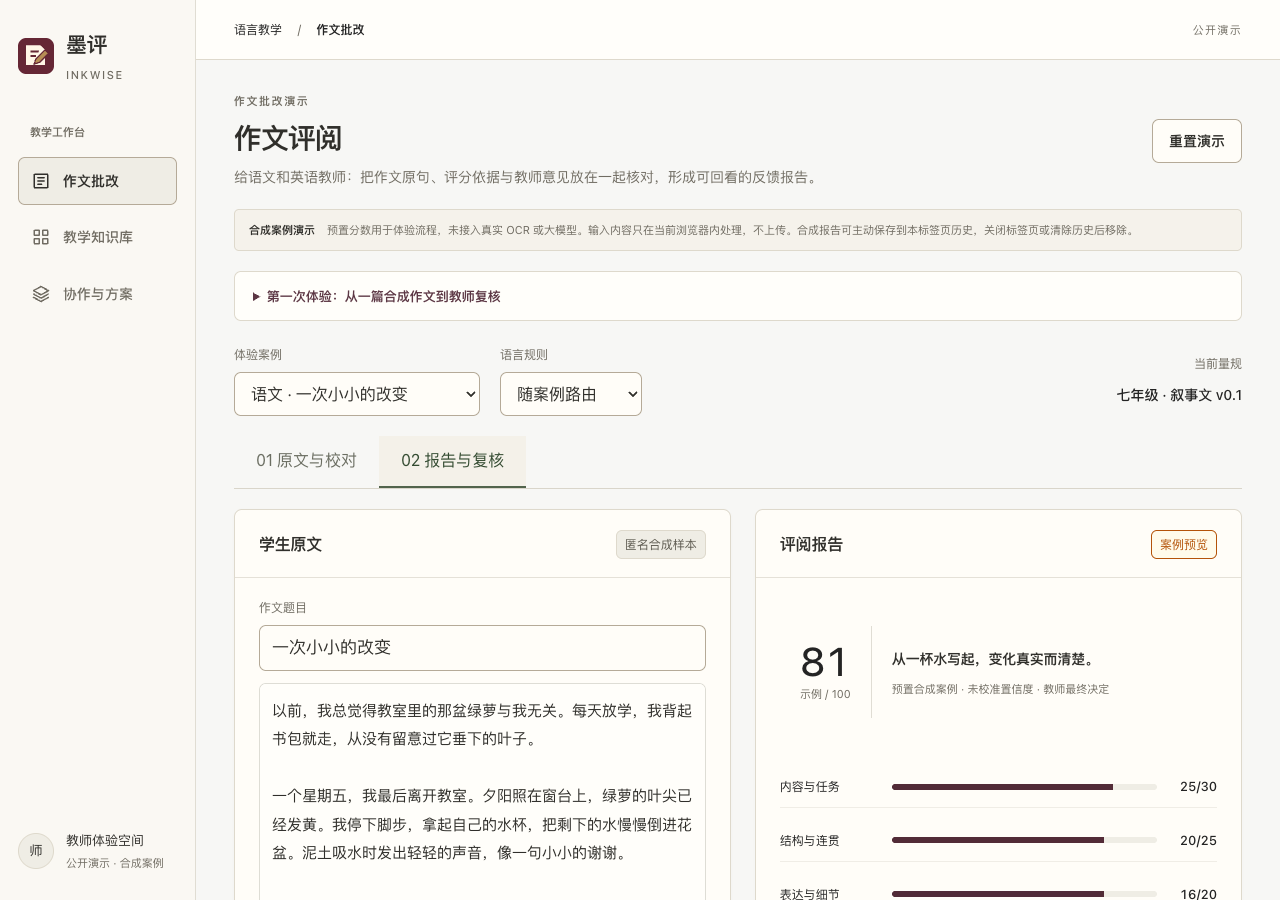
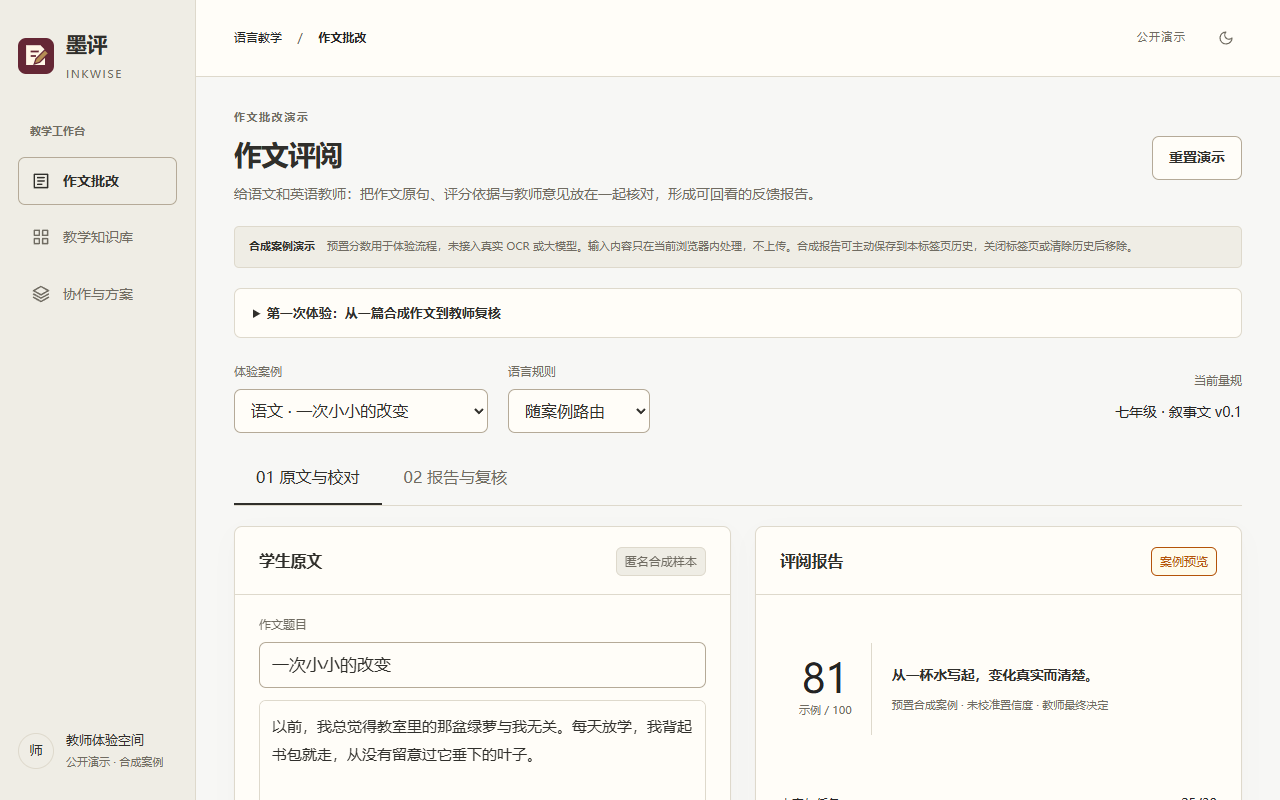
feat(demo): add a dark appearance and fix saving on non-HTTPS hosts
- Replace the demo's remaining hard-coded colours with theme tokens, so
  one dark token set covers every surface.
- Add a dark appearance that follows the system, with a toggle in the
  top bar. Only that choice is kept in local storage.
- Save history records without crypto.randomUUID, which is missing when
  the unpacked demo is served from a LAN address.
- Add tests/test_demo_theme.mjs: colours stay tokenised, both dark
  blocks stay identical, and every light colour token has a dark value.

diff --git a/demo/dist/styles.css b/demo/dist/styles.css
@@ -209,9 +209,19 @@ button,input,select,textarea{font:inherit}button,a,input,select,textarea,summary
 .session-history{margin-top:24px}.history-row{display:flex;flex-wrap:wrap;gap:12px;align-items:center;padding:16px 0;border-top:1px solid var(--border)}.history-row span{font-size:13px;color:var(--text-secondary);flex:1 1 240px}@media(max-width:600px){.session-history .panelhead{align-items:start;flex-direction:column}.history-row{display:grid}.history-row button{width:100%}}
 
 /* A document desk with one visible review stage on a phone. */
-.sidebar{width:196px;background:#faf8f3;padding:28px 18px;border-color:#e0ddd3}.shell{margin-inline-start:196px}.sidebar .brand{font-size:21px}.navlabel{margin-top:40px}.topbar{min-height:60px;background:#fffefa;font-size:12px}.pagehead{margin:0 0 20px}.pagehead h1{font-size:28px;letter-spacing:-.04em;font-weight:550}.notice{font-size:11px;padding:10px 14px;margin-bottom:20px;border-radius:5px;background:#f5f2eb}.toolbar{gap:20px;padding-bottom:20px}.panel{border-radius:8px;box-shadow:0 1px 3px #343d3305}.workspace{gap:24px;align-items:start}.paper{position:sticky;top:20px}.paper textarea{min-height:310px;max-height:52vh;line-height:1.9;background:#fffefa;border-color:#deddd5;font-size:15px}.paper-meta input{font-size:17px}.panelhead{padding-bottom:18px;border-bottom:1px solid #e5e1d8}.paperfoot{margin-top:10px}.steps{display:none}.scorehero{padding:24px 0;gap:20px}.scorecircle{border-radius:0;border:0;border-right:1px solid #e0ddd4;min-width:90px;background:transparent!important;box-shadow:none!important}.scorecircle strong{font-size:40px;font-weight:450}.scorehero h3{font-size:14px;line-height:1.8;font-weight:550}.scorehero p{font-size:11px}.dimension{padding:10px 0;font-size:12px;border-bottom:1px solid #f0ede6}.feedback{background:#fffefa;border:0;border-bottom:1px solid #e5e1d8;border-radius:0;padding:20px 0;box-shadow:none}.feedback blockquote{padding:12px 16px;background:#f4f1e9;border-left:2px solid #9e9474;font-size:14px;line-height:1.8}.feedback .button{min-height:34px;font-size:11px}.teacher{border-radius:5px;background:#f7f5ef}.review-actions{padding-top:18px;border-top:1px solid #e5e1d8}.review-stage-nav{display:flex;gap:0;border-bottom:1px solid #d9d5ca;margin:0 0 20px}.review-stage-nav button{background:transparent;border:0;border-bottom:2px solid transparent;border-radius:0;padding:12px 22px;min-height:46px;color:#6b6e62;font:500 13px inherit}.review-stage-nav button[aria-pressed=true]{border-bottom-color:#52644c;color:#334b31}.session-history{border-radius:8px}.review-stage-nav button:hover{background:#f4f1e9}
-@media(max-width:850px){.sidebar{position:static;width:auto;height:auto;padding:16px 20px}.sidebar .brand{font-size:19px}.sidebar nav{display:flex;gap:6px;margin-top:14px}.nav{justify-content:center;min-height:40px;font-size:11px;gap:6px;padding:8px;margin:0}.nav svg{width:16px;height:16px}.navlabel,.sidebottom{display:none}.shell{margin-inline-start:0}.topbar{padding:12px 20px;min-height:44px}main{padding:24px 20px 0}.pagehead h1{font-size:25px}.pagehead .eyebrow{display:none}.notice{display:block}.notice strong{display:block;margin-bottom:4px}.toolbar{display:grid;grid-template-columns:1fr 1fr;gap:12px}.toolbar select{width:100%;min-height:44px;font-size:14px}.rubric-chip{grid-column:1/-1;display:flex;gap:10px}.review-stage-nav{position:sticky;top:0;z-index:5;background:#f8f6f0;box-shadow:0 4px 8px #343d3306}.review-stage-nav button{flex:1;font-size:12px;padding:12px 8px}.workspace{display:block}.workspace[data-pane=paper] .review,.workspace[data-pane=review] .paper{display:none}.paper{position:static}.paper textarea{font-size:16px;min-height:280px;max-height:55vh}.review,.paper{padding:20px}.panelhead h2{scroll-margin-top:70px}.review-actions{display:grid;grid-template-columns:1fr}.feedback .button{min-height:44px}.scorehero h3{font-size:13px}.scorecircle strong{font-size:34px}.session-history .panelhead>div{display:flex;flex-wrap:wrap;gap:8px}.session-history button{font-size:12px}.bottom-note{margin-top:20px}.report-tabs button{min-height:44px}footer{padding-bottom:env(safe-area-inset-bottom)}}
+.sidebar{width:196px;background:var(--surface-muted);padding:28px 18px;border-color:var(--border)}.shell{margin-inline-start:196px}.sidebar .brand{font-size:21px}.navlabel{margin-top:40px}.topbar{min-height:60px;background:var(--surface-card);font-size:12px}.pagehead{margin:0 0 20px}.pagehead h1{font-size:28px;letter-spacing:-.04em;font-weight:550}.notice{font-size:11px;padding:10px 14px;margin-bottom:20px;border-radius:5px;background:var(--surface-muted)}.toolbar{gap:20px;padding-bottom:20px}.panel{border-radius:8px;box-shadow:var(--shadow-panel)}.workspace{gap:24px;align-items:start}.paper{position:sticky;top:20px}.paper textarea{min-height:310px;max-height:52vh;line-height:1.9;background:var(--surface-card);border-color:var(--border);font-size:15px}.paper-meta input{font-size:17px}.panelhead{padding-bottom:18px;border-bottom:1px solid var(--border)}.paperfoot{margin-top:10px}.steps{display:none}.scorehero{padding:24px 0;gap:20px}.scorecircle{border-radius:0;border:0;border-right:1px solid var(--border);min-width:90px;background:transparent!important;box-shadow:none!important}.scorecircle strong{font-size:40px;font-weight:450}.scorehero h3{font-size:14px;line-height:1.8;font-weight:550}.scorehero p{font-size:11px}.dimension{padding:10px 0;font-size:12px;border-bottom:1px solid var(--border)}.feedback{background:var(--surface-card);border:0;border-bottom:1px solid var(--border);border-radius:0;padding:20px 0;box-shadow:none}.feedback blockquote{padding:12px 16px;background:var(--surface-muted);border-left:2px solid var(--border-strong);font-size:14px;line-height:1.8}.feedback .button{min-height:34px;font-size:11px}.teacher{border-radius:5px;background:var(--surface-muted)}.review-actions{padding-top:18px;border-top:1px solid var(--border)}.review-stage-nav{display:flex;gap:0;border-bottom:1px solid var(--border);margin:0 0 20px}.review-stage-nav button{background:transparent;border:0;border-bottom:2px solid transparent;border-radius:0;padding:12px 22px;min-height:46px;color:var(--text-secondary);font:500 13px inherit}.review-stage-nav button[aria-pressed=true]{border-bottom-color:var(--text-primary);color:var(--text-primary)}.session-history{border-radius:8px}.review-stage-nav button:hover{background:var(--surface-muted)}
+@media(max-width:850px){.sidebar{position:static;width:auto;height:auto;padding:16px 20px}.sidebar .brand{font-size:19px}.sidebar nav{display:flex;gap:6px;margin-top:14px}.nav{justify-content:center;min-height:40px;font-size:11px;gap:6px;padding:8px;margin:0}.nav svg{width:16px;height:16px}.navlabel,.sidebottom{display:none}.shell{margin-inline-start:0}.topbar{padding:12px 20px;min-height:44px}main{padding:24px 20px 0}.pagehead h1{font-size:25px}.pagehead .eyebrow{display:none}.notice{display:block}.notice strong{display:block;margin-bottom:4px}.toolbar{display:grid;grid-template-columns:1fr 1fr;gap:12px}.toolbar select{width:100%;min-height:44px;font-size:14px}.rubric-chip{grid-column:1/-1;display:flex;gap:10px}.review-stage-nav{position:sticky;top:0;z-index:5;background:var(--surface-app);box-shadow:none}.review-stage-nav button{flex:1;font-size:12px;padding:12px 8px}.workspace{display:block}.workspace[data-pane=paper] .review,.workspace[data-pane=review] .paper{display:none}.paper{position:static}.paper textarea{font-size:16px;min-height:280px;max-height:55vh}.review,.paper{padding:20px}.panelhead h2{scroll-margin-top:70px}.review-actions{display:grid;grid-template-columns:1fr}.feedback .button{min-height:44px}.scorehero h3{font-size:13px}.scorecircle strong{font-size:34px}.session-history .panelhead>div{display:flex;flex-wrap:wrap;gap:8px}.session-history button{font-size:12px}.bottom-note{margin-top:20px}.report-tabs button{min-height:44px}footer{padding-bottom:env(safe-area-inset-bottom)}}
 
-.tag{color:#5c594f}
+.tag{color:var(--text-secondary)}
 
-.usage-guide{padding:0 18px;margin:0 0 24px;border:1px solid var(--border);border-radius:7px;background:#fffefa}.usage-guide>summary{padding:13px 0;color:#5c3744;font-weight:550;font-size:13px;cursor:pointer}.usage-guide ol{display:grid;grid-template-columns:repeat(3,minmax(0,1fr));gap:24px;margin:10px 0 20px;padding-left:20px}.usage-guide li{min-width:0;font-size:12px;line-height:1.8}.usage-guide li::marker{color:#805263}.usage-guide p{font-size:12px;color:#625f54;margin:7px 0 12px}.usage-guide .button{min-height:38px;padding:7px 10px;font-size:12px}@media(max-width:850px){.usage-guide{padding:0 16px}.usage-guide ol{grid-template-columns:1fr;gap:14px}.usage-guide>summary{font-size:12px}.usage-guide .button{min-height:44px}}
+.usage-guide{padding:0 18px;margin:0 0 24px;border:1px solid var(--border);border-radius:7px;background:var(--surface-card)}.usage-guide>summary{padding:13px 0;color:var(--text-primary);font-weight:550;font-size:13px;cursor:pointer}.usage-guide ol{display:grid;grid-template-columns:repeat(3,minmax(0,1fr));gap:24px;margin:10px 0 20px;padding-left:20px}.usage-guide li{min-width:0;font-size:12px;line-height:1.8}.usage-guide li::marker{color:var(--text-secondary)}.usage-guide p{font-size:12px;color:var(--text-secondary);margin:7px 0 12px}.usage-guide .button{min-height:38px;padding:7px 10px;font-size:12px}@media(max-width:850px){.usage-guide{padding:0 16px}.usage-guide ol{grid-template-columns:1fr;gap:14px}.usage-guide>summary{font-size:12px}.usage-guide .button{min-height:44px}}
+
+/* Appearance toggle. The icon shows the appearance it switches to. */
+.topbar .edition{margin-inline-start:auto}.theme-toggle{display:inline-grid;place-items:center;width:32px;height:32px;margin-inline-start:var(--space-2);padding:0;border:1px solid transparent;border-radius:var(--radius-sm);background:transparent;color:var(--text-secondary);cursor:pointer;transition:background-color var(--motion-fast) var(--motion-ease),color var(--motion-fast) var(--motion-ease)}.theme-toggle:hover{background:var(--surface-muted);color:var(--text-primary)}.theme-toggle svg{width:16px;height:16px;fill:none;stroke:currentColor;stroke-width:1.75;stroke-linecap:round;stroke-linejoin:round}.theme-toggle .sun{display:none}:root[data-theme=dark] .theme-toggle .sun{display:block}:root[data-theme=dark] .theme-toggle .moon{display:none}
+@media(prefers-color-scheme:dark){:root:not([data-theme=light]) .theme-toggle .sun{display:block}:root:not([data-theme=light]) .theme-toggle .moon{display:none}}
+@media(max-width:850px){.theme-toggle{width:40px;height:40px}}
+
+/* Dark appearance for the public demo: graphite paper with a rose accent. Every colour
+   above comes from these tokens; tests/test_demo_theme.mjs keeps it that way. */
+@media(prefers-color-scheme:dark){:root:not([data-theme=light]){color-scheme:dark;--surface-app:#121110;--surface-card:#1a1917;--surface-muted:#22201d;--surface-elevated:#2a2824;--surface-overlay:rgba(0,0,0,.6);--text-primary:#ece8df;--text-secondary:#a8a296;--brand:#d9a3b1;--brand-hover:#e6b9c4;--brand-active:#f0cdd5;--brand-foreground:#2a1219;--border:#34312c;--border-strong:#6b655a;--focus:#d9a3b1;--info:#d9a3b1;--info-subtle:#2a1a1f;--success:#5fc98a;--success-subtle:#14261c;--warning:#e2b454;--warning-subtle:#2a2212;--destructive:#f97066;--destructive-subtle:#2d1614;--shadow-panel:none;--shadow-float:0 12px 36px rgba(0,0,0,.5);--tool-bg:#121110;--tool-surface:#1a1917;--tool-ink:#ece8df;--tool-muted:#a8a296;--tool-line:#34312c;--tool-accent:#d9a3b1}}
+:root[data-theme=dark]{color-scheme:dark;--surface-app:#121110;--surface-card:#1a1917;--surface-muted:#22201d;--surface-elevated:#2a2824;--surface-overlay:rgba(0,0,0,.6);--text-primary:#ece8df;--text-secondary:#a8a296;--brand:#d9a3b1;--brand-hover:#e6b9c4;--brand-active:#f0cdd5;--brand-foreground:#2a1219;--border:#34312c;--border-strong:#6b655a;--focus:#d9a3b1;--info:#d9a3b1;--info-subtle:#2a1a1f;--success:#5fc98a;--success-subtle:#14261c;--warning:#e2b454;--warning-subtle:#2a2212;--destructive:#f97066;--destructive-subtle:#2d1614;--shadow-panel:none;--shadow-float:0 12px 36px rgba(0,0,0,.5);--tool-bg:#121110;--tool-surface:#1a1917;--tool-ink:#ece8df;--tool-muted:#a8a296;--tool-line:#34312c;--tool-accent:#d9a3b1}

diff --git a/demo/dist/app.js b/demo/dist/app.js
@@ -122,7 +122,7 @@ $('save-demo-report').addEventListener('click',()=>{try{
  if(!report||report.mode!=='synthetic-example')throw Error('历史仅保存合成案例。自定义内容请直接导出。');
  const copy=structuredClone(report);if(!confirmed){copy.comment=$('teacher-comment')?.value||'';const values=dimensions.map((_,i)=>$(`score-${i}`).value);if(!values.every((v,i)=>v!==''&&Number.isInteger(Number(v))&&Number(v)>=0&&Number(v)<=copy.weights[i]))throw Error('请为五个维度填写范围内的整数分数，再保存报告。');copy.scores=values.map(Number);}
  const latestHistory=parseHistory(sessionStorage.getItem(HISTORY_KEY));
- const next=[{id:crypto.randomUUID(),savedAt:new Date().toISOString(),report:copy},...latestHistory].slice(0,10),raw=JSON.stringify({version:1,items:next});parseHistory(raw);sessionStorage.setItem(HISTORY_KEY,raw);demoHistory=next;draftChanged=false;renderDemoHistory();$('demo-history-state').textContent='已保存合成报告，关闭标签页前可导出。';
+ const next=[{id:newId(),savedAt:new Date().toISOString(),report:copy},...latestHistory].slice(0,10),raw=JSON.stringify({version:1,items:next});parseHistory(raw);sessionStorage.setItem(HISTORY_KEY,raw);demoHistory=next;draftChanged=false;renderDemoHistory();$('demo-history-state').textContent='已保存合成报告，关闭标签页前可导出。';
  }catch(error){$('demo-history-state').textContent=error.message;}});
 $('clear-demo-history').addEventListener('click',()=>{if(!window.confirm('清除本标签页保存的演示历史？'))return;try{sessionStorage.removeItem(HISTORY_KEY);demoHistory=[];historyInvalid=false;renderDemoHistory();}catch{$('demo-history-state').textContent='清除失败，请检查浏览器存储权限。';}});
 renderDemoHistory();
@@ -144,3 +144,13 @@ $('demo-call-confirm').addEventListener('change',renderDemoCall);
 $('demo-call-authorize').addEventListener('click',()=>{if(demoCallState!=='checked'||!$('demo-call-confirm').checked)return;demoCallState='authorized';$('demo-call-confirm').checked=false;renderDemoCall();});
 $('demo-call-reset').addEventListener('click',()=>{demoCallState='unknown';$('demo-call-confirm').checked=false;renderDemoCall();});
 renderDemoCall();
+
+// randomUUID needs a secure context; a static server on a LAN address still has getRandomValues.
+function newId(){if(typeof crypto.randomUUID==='function')return crypto.randomUUID();const b=crypto.getRandomValues(new Uint8Array(16));b[6]=(b[6]&0x0f)|0x40;b[8]=(b[8]&0x3f)|0x80;const h=[...b].map(x=>x.toString(16).padStart(2,'0')).join('');return `${h.slice(0,8)}-${h.slice(8,12)}-${h.slice(12,16)}-${h.slice(16,20)}-${h.slice(20)}`;}
+// Appearance: follows the system until chosen here. Only this choice is kept in local storage.
+const THEME_KEY='inkwise.demo.theme';
+function storedTheme(){try{const value=localStorage.getItem(THEME_KEY);return value==='light'||value==='dark'?value:null;}catch{return null;}}
+function effectiveTheme(){return storedTheme()??(matchMedia('(prefers-color-scheme: dark)').matches?'dark':'light');}
+function paintTheme(theme,explicit){if(explicit)document.documentElement.dataset.theme=theme;$('theme-toggle').setAttribute('aria-label',theme==='dark'?'切换到浅色外观':'切换到深色外观');}
+$('theme-toggle').addEventListener('click',()=>{const next=effectiveTheme()==='dark'?'light':'dark';try{localStorage.setItem(THEME_KEY,next);}catch{}paintTheme(next,true);});
+paintTheme(effectiveTheme(),storedTheme()!==null);

diff --git a/demo/dist/index.html b/demo/dist/index.html
@@ -3,7 +3,8 @@
 <head>
   <meta charset="UTF-8"><meta name="viewport" content="width=device-width, initial-scale=1">
   <meta name="description" content="墨评 K12 作文批改工作台。体验原文校对、证据评分与教师复核的合成案例演示。">
-  <meta http-equiv="Content-Security-Policy" content="default-src 'self'; script-src 'self'; style-src 'self'; img-src 'self' data: blob:; connect-src 'none'; object-src 'none'; base-uri 'none'; form-action 'none'">
+  <meta name="color-scheme" content="light dark">
+<meta http-equiv="Content-Security-Policy" content="default-src 'self'; script-src 'self'; style-src 'self'; img-src 'self' data: blob:; connect-src 'none'; object-src 'none'; base-uri 'none'; form-action 'none'">
   <title>墨评 Inkwise · 作文批改工作台</title>
 
   <link rel="icon" href="assets/mark.svg"><meta name="theme-color" content="#f3f0e9"><link rel="preload" href="assets/fonts/inter-latin-wght-normal.woff2" as="font" type="font/woff2" crossorigin><link rel="stylesheet" href="theme.css"><link rel="stylesheet" href="styles.css"><script type="module" src="app.js"></script>
@@ -21,7 +22,7 @@
     <div class="sidebottom"><span class="avatar">师</span><div>教师体验空间<small>公开演示 · 合成案例</small></div></div>
   </aside>
   <div class="shell">
-    <header class="topbar"><span>语言教学 <span class="slash">/</span> <strong id="breadcrumb">作文批改</strong></span><span class="edition">公开演示</span></header>
+    <header class="topbar"><span>语言教学 <span class="slash">/</span> <strong id="breadcrumb">作文批改</strong></span><span class="edition">公开演示</span><button type="button" id="theme-toggle" class="theme-toggle" aria-label="切换深色或浅色外观"><svg class="sun" viewBox="0 0 24 24" aria-hidden="true"><circle cx="12" cy="12" r="4"/><path d="M12 2v2M12 20v2M4.93 4.93l1.41 1.41M17.66 17.66l1.41 1.41M2 12h2M20 12h2M6.34 17.66l-1.41 1.41M19.07 4.93l-1.41 1.41"/></svg><svg class="moon" viewBox="0 0 24 24" aria-hidden="true"><path d="M12 3a6 6 0 0 0 9 9 9 9 0 1 1-9-9Z"/></svg></button></header>
     <main id="main" tabindex="-1">
       <section id="work-view" class="view">
         <div class="pagehead"><div><p class="eyebrow">作文批改演示</p><h1>作文评阅</h1><p>给语文和英语教师：把作文原句、评分依据与教师意见放在一起核对，形成可回看的反馈报告。</p></div><button id="reset" class="button secondary">重置演示</button></div>

diff --git a/README.md b/README.md
@@ -16,7 +16,7 @@
 
 *合成作文与预置示例报告。点击截图进入公开体验。*
 
-网页版使用合成作文。选择案例、确认原文、检查引用，再保存复核结果。自定义文本可以用于人工复核，网页不会生成模型分数。
+网页版使用合成作文。选择案例、确认原文、检查引用，再保存复核结果。自定义文本可以用于人工复核，网页不会生成模型分数。页面跟随系统的浅色或深色外观，也可用右上角的按钮切换；浏览器只记住这一项外观选择。
 
 评语卡上的「定位原文」会选中对应的原句。修改作文后，重新评阅才会显示与新原文匹配的依据。
 
